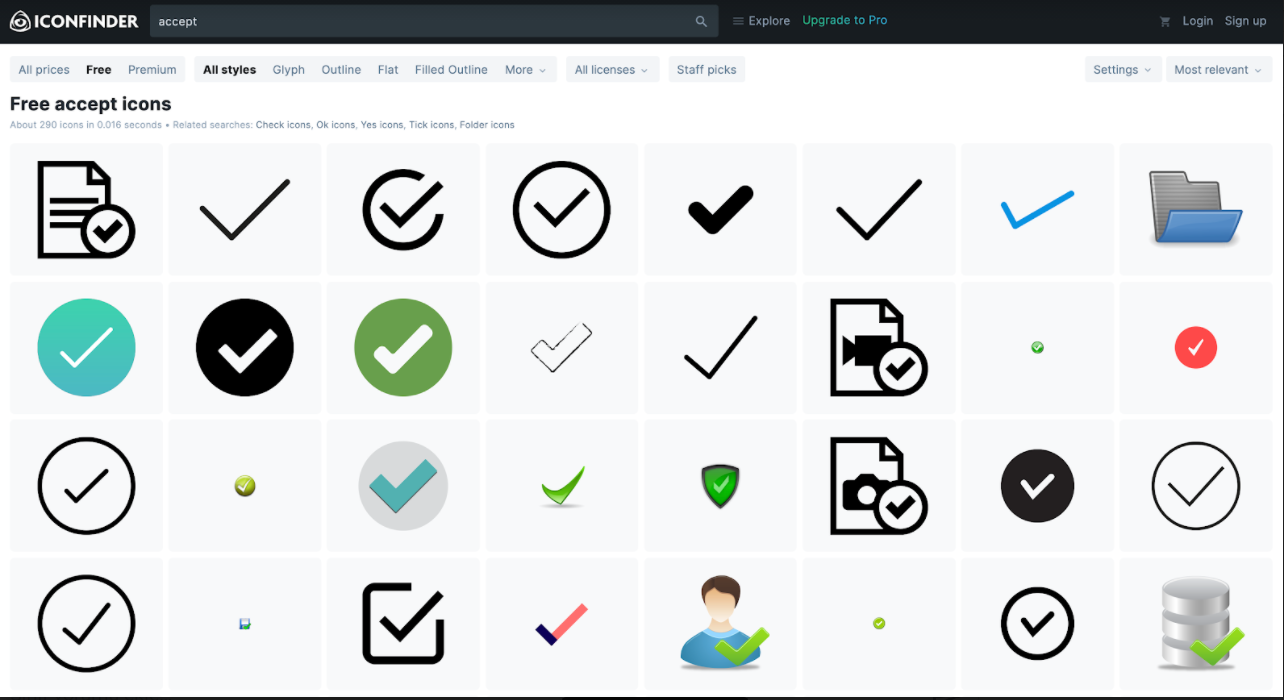
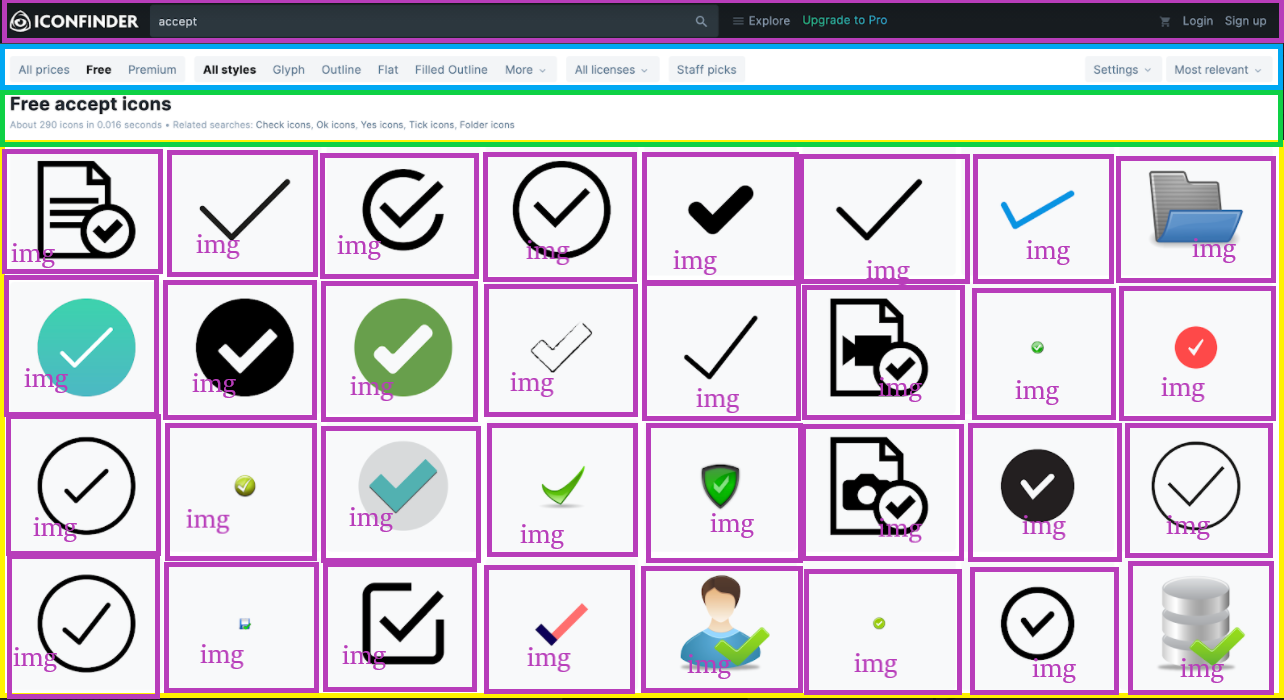
review

Changed region(s): [[0.0, 0.0, 1.0, 1.0]]

diff --git a/CSS/Week 2/layout.html b/CSS/Week 2/layout.html
@@ -1,0 +1,90 @@
+<!DOCTYPE html>
+<html lang="en">
+<head>
+    <meta charset="UTF-8">
+    <meta name="viewport" content="width=device-width, initial-scale=1.0">
+    <title>loyaut</title>
+</head>
+<body>
+
+    <main>
+
+<nav>
+    <div class="search bar">
+        <img src="https://cdn.iconfinder.com/static/img/logo/white.svg?d0036af2c3" alt="white">
+        <input type="text" placeholder="accept">
+        <a class="https://www.iconfinder.com" href="#home">Home</a>
+        <a href="https://www.iconfinder.com/">Login</a>
+        <a href="#contact">Sign up</a>
+      </div>
+</nav>
+
+
+
+
+
+<header>
+
+
+</header>
+
+<section>
+
+    <h4>   </h4>
+    <h6>   </h6>
+    <table>
+
+        <tr> 
+            <td><img src="https://www.iconfinder.com/search/?q=accept" alt="document_text_accept-256"></td>
+            <td> <img src="https://www.iconfinder.com/icons/2738304/approve_ok_check_accept_icon" alt="accept_approve_check_ok_icon"></td>
+            <td></td>
+            <td></td>
+            <td></td>
+            <td></td>
+            <td></td>
+            <td></td>
+
+     </tr>
+     
+        <tr>  
+            <td></td>
+            <td></td>
+            <td></td>
+            <td></td>
+            <td></td>
+            <td></td>
+            <td></td>
+            <td></td>
+        </tr>
+        <tr>  
+            <td></td>
+            <td></td>
+            <td></td>
+            <td></td>
+            <td></td>
+            <td></td>
+            <td></td>
+            <td></td>
+        </tr>
+        <tr>  
+            <td></td>
+            <td></td>
+            <td></td>
+            <td></td>
+            <td></td>
+            <td></td>
+            <td></td>
+            <td></td>
+
+        </tr>
+    </table>
+</section>
+
+
+</main>
+
+
+
+    
+</body>
+</html>

diff --git a/CSS/Week 3/swiss-flag/style1.css b/CSS/Week 3/swiss-flag/style1.css
@@ -1,0 +1,32 @@
+section {background-color: red; width: 720px; height: 720px; max-width: width 50%; max-width: height 50%; position: absolute;
+  top: 50%;
+  left: 50%;
+  margin-left: -360px;
+  margin-top: -360px;}
+
+  #dikey { width: 100px;
+  height: 450px; max-width: width 50%; max-width: height 50%;
+  background-color: white;
+    position: absolute;
+    left: 50%;
+    top: 50%;
+    margin-left: -50px;
+    margin-top: -225px;
+  
+   
+  
+  }
+ 
+  #yatay { width: 450px;
+    height: 100px; max-width: width 50%; max-width: height 50%; 
+    background-color: white; 
+    position: absolute;
+
+    left: 50%;
+    top: 50%;
+    margin-left: -225px;
+    margin-top: -50px;
+   
+    
+  
+  }

diff --git a/CSS/Week 3/swiss-flag/flag.html b/CSS/Week 3/swiss-flag/flag.html
@@ -1,0 +1,15 @@
+<!DOCTYPE html>
+<html lang="en">
+<head>
+    <meta charset="UTF-8">
+    <meta name="viewport" content="width=device-width, initial-scale=1.0">
+    <title>flag</title>
+    <link rel="stylesheet" href="./style1.css">
+</head>
+<body>
+    <section>
+        <div id="yatay" ></div>
+        <div id="dikey"></div>
+    </section>
+</body>
+</html>

diff --git a/local/den.html b/local/den.html
@@ -1,0 +1,12 @@
+<!DOCTYPE html>
+<html lang="en">
+<head>
+    <meta charset="UTF-8">
+    <meta name="viewport" content="width=device-width, initial-scale=1.0">
+    <title>deneme</title>
+</head>
+<body>
+    <h2>merhaba</h2>
+    
+</body>
+</html>
